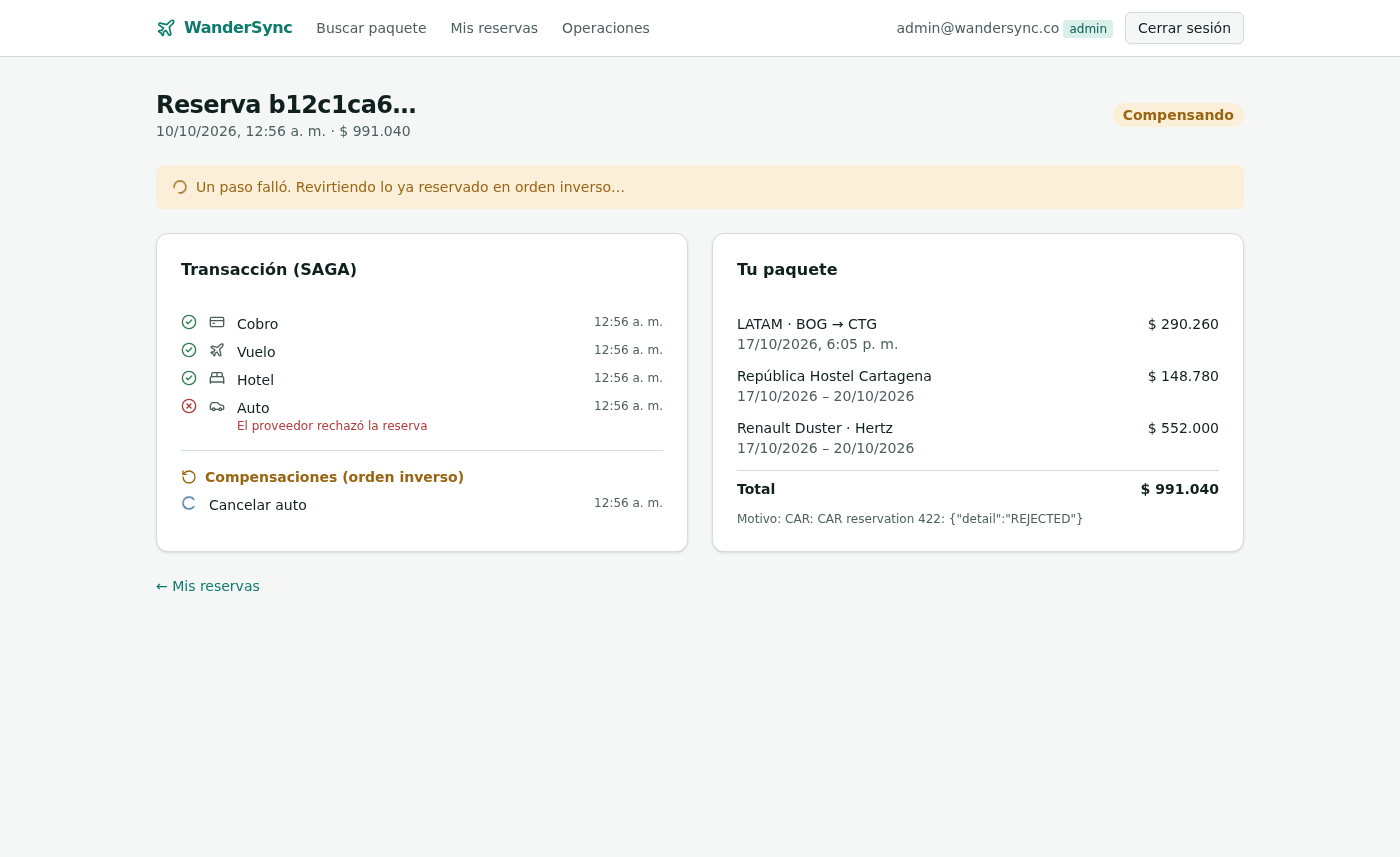
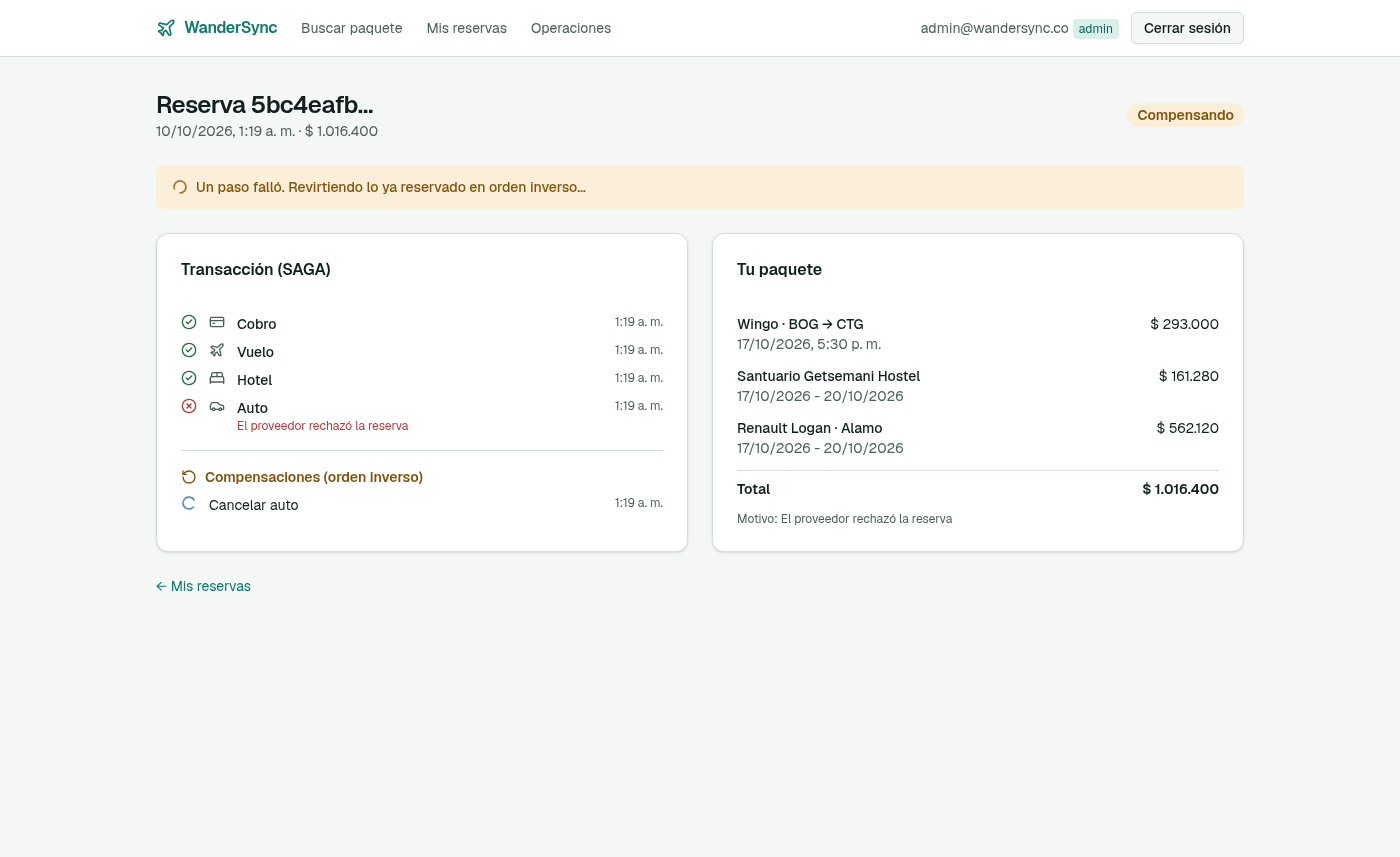
style(stage-09): targeted design pass (dark mode, AA contrast, skeletons, Geist, no dashes)

diff --git a/frontend/src/app/page.tsx b/frontend/src/app/page.tsx
@@ -4,11 +4,12 @@ import { useEffect, useMemo, useState } from "react";
 import Link from "next/link";
 import { useRouter } from "next/navigation";
 import { useLazyQuery, useMutation, useQuery } from "@apollo/client/react";
-import { BedDouble, Car, Loader2, Plane, Search, ShieldAlert } from "lucide-react";
+import { BedDouble, Car, Plane, Search, ShieldAlert } from "lucide-react";
 import { Button } from "@/components/ui/button";
 import { Card, CardContent, CardHeader, CardTitle } from "@/components/ui/card";
 import { Input } from "@/components/ui/input";
 import { Label } from "@/components/ui/label";
+import { Skeleton } from "@/components/ui/skeleton";
 import { BOOK, CITIES, ME, SEARCH, requestError, type Me, type UserError } from "@/lib/gql";
 import { SOURCE_LABEL, isoDay, money, time } from "@/lib/format";
 import { cn } from "@/lib/utils";
@@ -139,13 +140,27 @@ export default function SearchPage() {
                 onChange={(e) => setForm({ ...form, returnDate: e.target.value })} />
             </div>
             <Button type="submit" disabled={loading || form.origin === form.destination}>
-              {loading ? <Loader2 className="animate-spin" /> : <Search />} Buscar
+              <Search /> {loading ? "Buscando…" : "Buscar"}
             </Button>
           </form>
         </CardContent>
       </Card>
 
       {error && <p role="alert" className="text-sm text-destructive">{error.message}</p>}
+
+      {loading && !result && (
+        <div className="grid gap-6 lg:grid-cols-[1fr_320px]" aria-busy="true" aria-label="Buscando ofertas">
+          <div className="grid gap-6 md:grid-cols-3">
+            {[0, 1, 2].map((i) => (
+              <div key={i} className="flex flex-col gap-2">
+                <Skeleton className="h-6 w-24" />
+                {[0, 1, 2].map((j) => <Skeleton key={j} className="h-20 w-full" />)}
+              </div>
+            ))}
+          </div>
+          <Skeleton className="h-56 w-full" />
+        </div>
+      )}
 
       {result && (
         <div className="grid gap-6 lg:grid-cols-[1fr_320px]">
@@ -156,10 +171,11 @@ export default function SearchPage() {
                 {result.flights.length === 0 && <p className="text-sm text-muted-foreground">Sin vuelos para esa fecha.</p>}
                 {result.flights.map((f) => (
                   <Option key={f.id} selected={pick.flight === f.id} onSelect={() => setPick({ ...pick, flight: f.id })}>
-                    <div className="flex justify-between font-medium"><span>{f.airline}</span><span>{money(f.priceCop)}</span></div>
+                    <div className="flex justify-between gap-3 font-medium"><span>{f.airline}</span><span>{money(f.priceCop)}</span></div>
+                    <div className="text-muted-foreground">{time(f.departAt)}{f.arriveAt && ` → ${time(f.arriveAt)}`}</div>
                     <div className="text-muted-foreground">
-                      {time(f.departAt)}{f.arriveAt && ` → ${time(f.arriveAt)}`} · {f.stops ? `${f.stops} escala(s)` : "Directo"}
-                      {f.durationMinutes && ` · ${Math.floor(f.durationMinutes / 60)} h ${f.durationMinutes % 60} min`}
+                      {f.stops ? `${f.stops} escala(s)` : "Directo"}
+                      {f.durationMinutes && `, ${Math.floor(f.durationMinutes / 60)} h ${f.durationMinutes % 60} min`}
                     </div>
                     <Source s={f.source} />
                   </Option>
@@ -173,7 +189,7 @@ export default function SearchPage() {
                 {result.hotels.map((h) => (
                   <Option key={h.id} selected={pick.hotel === h.id} onSelect={() => setPick({ ...pick, hotel: h.id })}>
                     <div className="font-medium">{h.name}</div>
-                    <div className="flex justify-between text-muted-foreground">
+                    <div className="flex justify-between gap-3 text-muted-foreground">
                       <span>{h.rating ? `★ ${h.rating.toFixed(1)}` : "Sin calificación"}</span><span className="font-medium text-foreground">{money(h.priceTotalCop)}</span>
                     </div>
                     <Source s={h.source} />
@@ -187,7 +203,7 @@ export default function SearchPage() {
                 {result.cars.length === 0 && <p className="text-sm text-muted-foreground">Sin autos para esas fechas.</p>}
                 {result.cars.map((c) => (
                   <Option key={c.id} selected={pick.car === c.id} onSelect={() => setPick({ ...pick, car: c.id })}>
-                    <div className="flex justify-between font-medium"><span>{c.model}</span><span>{money(c.priceTotalCop)}</span></div>
+                    <div className="flex justify-between gap-3 font-medium"><span>{c.model}</span><span>{money(c.priceTotalCop)}</span></div>
                     <div className="text-muted-foreground">{c.vendor}{c.category && ` · ${c.category}`}</div>
                     <Source s={c.source} />
                   </Option>
@@ -200,9 +216,9 @@ export default function SearchPage() {
             <CardHeader><CardTitle className="text-base">Tu paquete</CardTitle></CardHeader>
             <CardContent className="flex flex-col gap-3 text-sm">
               <dl className="flex flex-col gap-1">
-                <div className="flex justify-between"><dt className="text-muted-foreground">Vuelo</dt><dd>{flight ? money(flight.priceCop) : "—"}</dd></div>
-                <div className="flex justify-between"><dt className="text-muted-foreground">Hotel</dt><dd>{hotel ? money(hotel.priceTotalCop) : "—"}</dd></div>
-                <div className="flex justify-between"><dt className="text-muted-foreground">Auto</dt><dd>{car ? money(car.priceTotalCop) : "—"}</dd></div>
+                <div className="flex justify-between"><dt className="text-muted-foreground">Vuelo</dt><dd>{flight ? money(flight.priceCop) : "Sin elegir"}</dd></div>
+                <div className="flex justify-between"><dt className="text-muted-foreground">Hotel</dt><dd>{hotel ? money(hotel.priceTotalCop) : "Sin elegir"}</dd></div>
+                <div className="flex justify-between"><dt className="text-muted-foreground">Auto</dt><dd>{car ? money(car.priceTotalCop) : "Sin elegir"}</dd></div>
                 <div className="mt-2 flex justify-between border-t border-border pt-2 text-base font-semibold"><dt>Total</dt><dd>{money(total)}</dd></div>
               </dl>
 
@@ -233,7 +249,7 @@ export default function SearchPage() {
 
               {me ? (
                 <Button onClick={onBook} disabled={!flight || !hotel || !car || booking}>
-                  {booking && <Loader2 className="animate-spin" />} Reservar paquete
+                  {booking ? "Reservando…" : "Reservar paquete"}
                 </Button>
               ) : (
                 <Button asChild><Link href="/ingresar">Ingresa para reservar</Link></Button>

diff --git a/frontend/src/app/reservas/[id]/page.tsx b/frontend/src/app/reservas/[id]/page.tsx
@@ -39,9 +39,9 @@ const BANNER: Record<string, { cls: string; text: string }> = {
 /** Saga errors are technical ("StepTimeout: …"); travelers get a plain explanation, the raw text stays in the tooltip. */
 function friendly(error: string | null): string {
   if (!error) return "";
-  if (error.includes("StepTimeout")) return "Sin confirmación a tiempo (timeout de red)";
+  if (error.includes("StepTimeout") || error.includes("no confirmation")) return "Sin confirmación a tiempo (timeout de red)";
   if (error.includes("payment declined")) return "Pago rechazado";
-  if (error.includes("StepRejected")) return "El proveedor rechazó la reserva";
+  if (error.includes("StepRejected") || /reservation (4\d\d)/.test(error)) return "El proveedor rechazó la reserva";
   if (error.includes("interrupted") || error.includes("recovered_after_crash")) return "Interrumpido por una caída del orquestador";
   return "Error temporal";
 }
@@ -139,19 +139,19 @@ export default function TrackerPage() {
             {order.hotel && (
               <div className="flex justify-between gap-2">
                 <div><div className="font-medium">{order.hotel.name}</div>
-                  <div className="text-muted-foreground">{day(order.hotel.checkIn)} – {day(order.hotel.checkOut)}</div></div>
+                  <div className="text-muted-foreground">{day(order.hotel.checkIn)} - {day(order.hotel.checkOut)}</div></div>
                 <span>{money(order.hotel.priceTotalCop)}</span>
               </div>
             )}
             {order.car && (
               <div className="flex justify-between gap-2">
                 <div><div className="font-medium">{order.car.model} · {order.car.vendor}</div>
-                  <div className="text-muted-foreground">{day(order.car.pickupDate)} – {day(order.car.dropoffDate)}</div></div>
+                  <div className="text-muted-foreground">{day(order.car.pickupDate)} - {day(order.car.dropoffDate)}</div></div>
                 <span>{money(order.car.priceTotalCop)}</span>
               </div>
             )}
             <div className="flex justify-between border-t border-border pt-2 font-semibold"><span>Total</span><span>{money(order.totalCop)}</span></div>
-            {order.failureReason && <p className="text-xs text-muted-foreground" title={order.failureReason}>Motivo: {friendly(order.failureReason) === "Error temporal" ? order.failureReason : friendly(order.failureReason)}</p>}
+            {order.failureReason && <p className="text-xs text-muted-foreground" title={order.failureReason}>Motivo: {friendly(order.failureReason)}</p>}
           </CardContent>
         </Card>
       </div>

diff --git a/frontend/src/app/globals.css b/frontend/src/app/globals.css
@@ -28,15 +28,56 @@
   --state-running-bg: #e3eef8;
   --state-running-fg: #2e6f9e;
   --state-success-bg: #e3f4e8;
-  --state-success-fg: #2f7d4f;
+  --state-success-fg: #276b43;
   --state-failed-bg: #fbeaea;
   --state-failed-fg: #b23b3b;
   --state-compensating-bg: #fbefd9;
-  --state-compensating-fg: #9a6512;
+  --state-compensating-fg: #82540e;
   --state-compensated-bg: #efe9fa;
   --state-compensated-fg: #6b4fa0;
 
   --radius: 0.5rem;
+  color-scheme: light;
+}
+
+/* Dark mode follows the OS setting; same accent (teal), same hierarchy. */
+@media (prefers-color-scheme: dark) {
+  :root {
+    --background: #0e1615;
+    --foreground: #e3ecea;
+    --card: #152120;
+    --card-foreground: #e3ecea;
+    --popover: #152120;
+    --popover-foreground: #e3ecea;
+    --primary: #3cb5a4;
+    --primary-foreground: #08201d;
+    --secondary: #1c2b29;
+    --secondary-foreground: #e3ecea;
+    --muted: #1c2b29;
+    --muted-foreground: #9db1ad;
+    --accent: #173a35;
+    --accent-foreground: #8fe0d3;
+    --destructive: #e07a7a;
+    --destructive-foreground: #1a0d0d;
+    --border: #2a3b39;
+    --input: #344a47;
+    --ring: #3cb5a4;
+
+    --state-pending-bg: #1c2b29;
+    --state-pending-fg: #9db1ad;
+    --state-running-bg: #172636;
+    --state-running-fg: #7ab4e0;
+    --state-success-bg: #14281c;
+    --state-success-fg: #6cc795;
+    --state-failed-bg: #2e1818;
+    --state-failed-fg: #ef8f8f;
+    --state-compensating-bg: #33270f;
+    --state-compensating-fg: #e3b25e;
+    --state-compensated-bg: #241c33;
+    --state-compensated-fg: #b9a2ec;
+
+    color-scheme: dark;
+  }
 }
 
 @theme inline {
@@ -77,9 +118,9 @@
   --radius-lg: var(--radius);
   --radius-xl: calc(var(--radius) + 4px);
 
-  /* System fonts: no build-time font download, the stack stays fully local. */
-  --font-sans: ui-sans-serif, system-ui, "Segoe UI", Roboto, "Helvetica Neue", Arial, sans-serif;
-  --font-mono: ui-monospace, "SFMono-Regular", "JetBrains Mono", Menlo, Consolas, monospace;
+  /* Geist ships its font files inside the npm package (self-hosted, no download at build or run time). */
+  --font-sans: var(--font-geist-sans), ui-sans-serif, system-ui, sans-serif;
+  --font-mono: var(--font-geist-mono), ui-monospace, monospace;
 }
 
 @layer base {

diff --git a/frontend/src/app/admin/page.tsx b/frontend/src/app/admin/page.tsx
@@ -2,7 +2,7 @@
 
 import { useState } from "react";
 import { useMutation, useQuery } from "@apollo/client/react";
-import { ExternalLink, Loader2, RefreshCw } from "lucide-react";
+import { ExternalLink, RefreshCw } from "lucide-react";
 import { Button } from "@/components/ui/button";
 import { Card, CardContent, CardHeader, CardTitle } from "@/components/ui/card";
 import { ME, TRIGGER_INGESTION, requestError, type Me } from "@/lib/gql";
@@ -36,7 +36,7 @@ export default function AdminPage() {
               (normalmente corre cada 6 horas).
             </p>
             <Button onClick={run} disabled={loading} className="self-start">
-              {loading ? <Loader2 className="animate-spin" /> : <RefreshCw />} Ejecutar ingesta
+              <RefreshCw /> {loading ? "Programando…" : "Ejecutar ingesta"}
             </Button>
             {msg && <p role="status">{msg}</p>}
           </CardContent>
@@ -45,10 +45,10 @@ export default function AdminPage() {
           <CardHeader><CardTitle className="text-base">Observabilidad</CardTitle></CardHeader>
           <CardContent className="flex flex-col gap-2 text-sm">
             <a className="flex items-center gap-2 text-primary hover:underline" href="http://localhost:4200" target="_blank" rel="noreferrer">
-              <ExternalLink className="size-4" /> Prefect — flujos de ingesta y SAGA
+              <ExternalLink className="size-4" /> Prefect: flujos de ingesta y SAGA
             </a>
             <a className="flex items-center gap-2 text-primary hover:underline" href="http://localhost:8787" target="_blank" rel="noreferrer">
-              <ExternalLink className="size-4" /> Dask — workers y task stream
+              <ExternalLink className="size-4" /> Dask: workers y task stream
             </a>
             <p className="mt-2 text-muted-foreground">
               Para simular fallos SAGA, usa el panel «Simular fallo (admin)» al reservar un paquete.

diff --git a/frontend/src/components/ui/button.tsx b/frontend/src/components/ui/button.tsx
@@ -4,7 +4,7 @@ import { cn } from "@/lib/utils"
 import { Slot } from "radix-ui"
 
 const buttonVariants = cva(
-  "inline-flex shrink-0 items-center justify-center gap-2 rounded-md text-sm font-medium whitespace-nowrap transition-all outline-none focus-visible:border-ring focus-visible:ring-[3px] focus-visible:ring-ring/50 disabled:pointer-events-none disabled:opacity-50 aria-invalid:border-destructive aria-invalid:ring-destructive/20 dark:aria-invalid:ring-destructive/40 [&_svg]:pointer-events-none [&_svg]:shrink-0 [&_svg:not([class*='size-'])]:size-4",
+  "inline-flex shrink-0 items-center justify-center gap-2 rounded-md text-sm font-medium whitespace-nowrap transition-all outline-none active:scale-[0.98] motion-reduce:active:scale-100 motion-reduce:transition-none focus-visible:border-ring focus-visible:ring-[3px] focus-visible:ring-ring/50 disabled:pointer-events-none disabled:opacity-50 aria-invalid:border-destructive aria-invalid:ring-destructive/20 dark:aria-invalid:ring-destructive/40 [&_svg]:pointer-events-none [&_svg]:shrink-0 [&_svg:not([class*='size-'])]:size-4",
   {
     variants: {
       variant: {

diff --git a/frontend/src/app/ingresar/page.tsx b/frontend/src/app/ingresar/page.tsx
@@ -3,7 +3,6 @@
 import { useState } from "react";
 import { useRouter } from "next/navigation";
 import { useApolloClient, useMutation } from "@apollo/client/react";
-import { Loader2 } from "lucide-react";
 import { Button } from "@/components/ui/button";
 import { Card, CardContent, CardHeader, CardTitle } from "@/components/ui/card";
 import { Input } from "@/components/ui/input";
@@ -64,8 +63,7 @@ export default function LoginPage() {
             <p key={e.code} role="alert" className="text-sm text-destructive">{e.message}</p>
           ))}
           <Button type="submit" disabled={l1 || l2}>
-            {(l1 || l2) && <Loader2 className="animate-spin" />}
-            {mode === "login" ? "Ingresar" : "Crear cuenta"}
+            {l1 || l2 ? "Verificando…" : mode === "login" ? "Ingresar" : "Crear cuenta"}
           </Button>
           <button type="button" className="text-sm text-primary underline-offset-4 hover:underline"
             onClick={() => { setMode(mode === "login" ? "register" : "login"); setErrors([]); }}>

diff --git a/frontend/src/app/layout.tsx b/frontend/src/app/layout.tsx
@@ -1,4 +1,6 @@
 import type { Metadata } from "next";
+import { GeistMono } from "geist/font/mono";
+import { GeistSans } from "geist/font/sans";
 import "./globals.css";
 import { Providers } from "@/lib/apollo";
 import { Header } from "@/components/header";
@@ -10,7 +12,7 @@ export const metadata: Metadata = {
 
 export default function RootLayout({ children }: { children: React.ReactNode }) {
   return (
-    <html lang="es" className="h-full antialiased">
+    <html lang="es" className={`${GeistSans.variable} ${GeistMono.variable} h-full antialiased`}>
       <body className="flex min-h-full flex-col">
         <Providers>
           <Header />

diff --git a/scripts/ui_e2e.py b/scripts/ui_e2e.py
@@ -92,6 +92,7 @@ body = d.find_element(By.TAG_NAME, "body").text
 comp = body.split("Compensaciones (orden inverso)")[1]
 order = [comp.index(x) for x in ("Cancelar auto", "Cancelar hotel", "Cancelar vuelo", "Reembolso")]
 check("UI shows CANCELLED with Cancelar auto → hotel → vuelo → Reembolso", order == sorted(order))
+cancelled_url = d.current_url
 
 print("## AC-09.1 the browser only talks to the backend through /graphql")
 calls = set()
@@ -130,6 +131,21 @@ focused = d.execute_script("const e=document.activeElement, c=getComputedStyle(e
 check("keyboard focus reaches a control and shows a visible outline", focused[0] != "BODY" and focused[1] != "none" and focused[2] != "0px", f"({focused})")
 lang = d.execute_script("return document.documentElement.lang")
 check("<html lang='es'>", lang == "es")
+
+print("## Dark mode follows prefers-color-scheme")
+light_bg = d.execute_script("return getComputedStyle(document.body).backgroundColor")
+d.execute_cdp_cmd("Emulation.setEmulatedMedia", {"features": [{"name": "prefers-color-scheme", "value": "dark"}]})
+d.get(APP)
+wait.until(EC.presence_of_element_located((By.ID, "origin")))
+time.sleep(1)
+dark_bg = d.execute_script("return getComputedStyle(document.body).backgroundColor")
+shot("07-dark-search")
+login(ADMIN, ADMIN_PW)  # the a11y step above left us logged out; orders are owner-only
+d.get(cancelled_url)
+text_appears("Compensaciones (orden inverso)")
+time.sleep(1)
+shot("08-dark-tracker")
+check("dark token set applies (body background changes)", light_bg != dark_bg, f"(light {light_bg}, dark {dark_bg})")
 
 d.quit()
 print(f"\n{'ALL CHECKS PASSED' if failures == 0 else f'{failures} CHECK(S) FAILED'}")

diff --git a/evidence/gate-4/GATE.md b/evidence/gate-4/GATE.md
@@ -58,6 +58,18 @@ Reproduce: `python3 scripts/test_gateway.py` (Stages 07–08, about 3.5 min incl
 3. **Critical CVE inherited by reuse:** `next@16.3.5` from Taller-PatronSaga (RCE in `next/og`). Upgraded to 16.3.8. The unused eslint chain, which carried a high `braces` advisory with no fix, was removed.
 4. **No visible keyboard focus on links:** my first a11y check passed falsely (it accepted a transparent shadow). A global `:focus-visible` outline was added and the check was made strict.
 
+## Design pass (design-taste-frontend skill, targeted fixes, requested 2026-10-10)
+Only the skill's general rules were applied. It doesn't cover multi-step product UI, so its layout rules for heroes, bentos and eyebrows weren't used. Changes:
+- **Dashes:** every visible em/en dash removed: admin link labels, date ranges (now `17/10/2026 - 20/10/2026`), and the `—` empty placeholders in the package summary (now "Sin elegir").
+- **Dark mode:** a full dark token set follows `prefers-color-scheme`, with `color-scheme` set so native date pickers and selects match.
+- **Contrast:** all 15 text/background token pairs pass WCAG AA in both modes. The light "Confirmada" and "Compensando" badges, inherited from Taller-PatronSaga, were at 4.41 and 4.35 and are now 5.62 and 5.72.
+- **Loading states:** spinners replaced with skeleton results while searching and with verb labels on buttons ("Buscando…", "Reservando…", "Verificando…"). The only spinner kept marks real progress on a running SAGA step.
+- **Press feedback:** buttons scale slightly when pressed (`active:scale-[0.98]`), disabled when the user prefers reduced motion.
+- **Separators:** at most one middle dot per line. The flight row now shows its times on one line and stops plus duration on the next.
+- **Font:** Geist from the `geist` npm package. The font files ship inside the bundle, so nothing is downloaded at build or run time. `npm audit` still reports 0 vulnerabilities.
+- **Polish:** a gap between long names and prices, and the "Motivo" line now shows a friendly Spanish reason.
+- Evidence: `stage-09/07-dark-search.png`, `stage-09/08-dark-tracker.png`. The E2E gained a dark-mode check, and all checks pass.
+
 ## Deviations from spec
 - **Stage 07 and 08 code ship together.** The gateway code for both stages landed in the stage-07 commit, because the session middleware and resolvers are one module set. The stage-08 commit holds the verification and the audit.
 - **Depth limit replaced by an alias limit** (design §5.1 updated).
